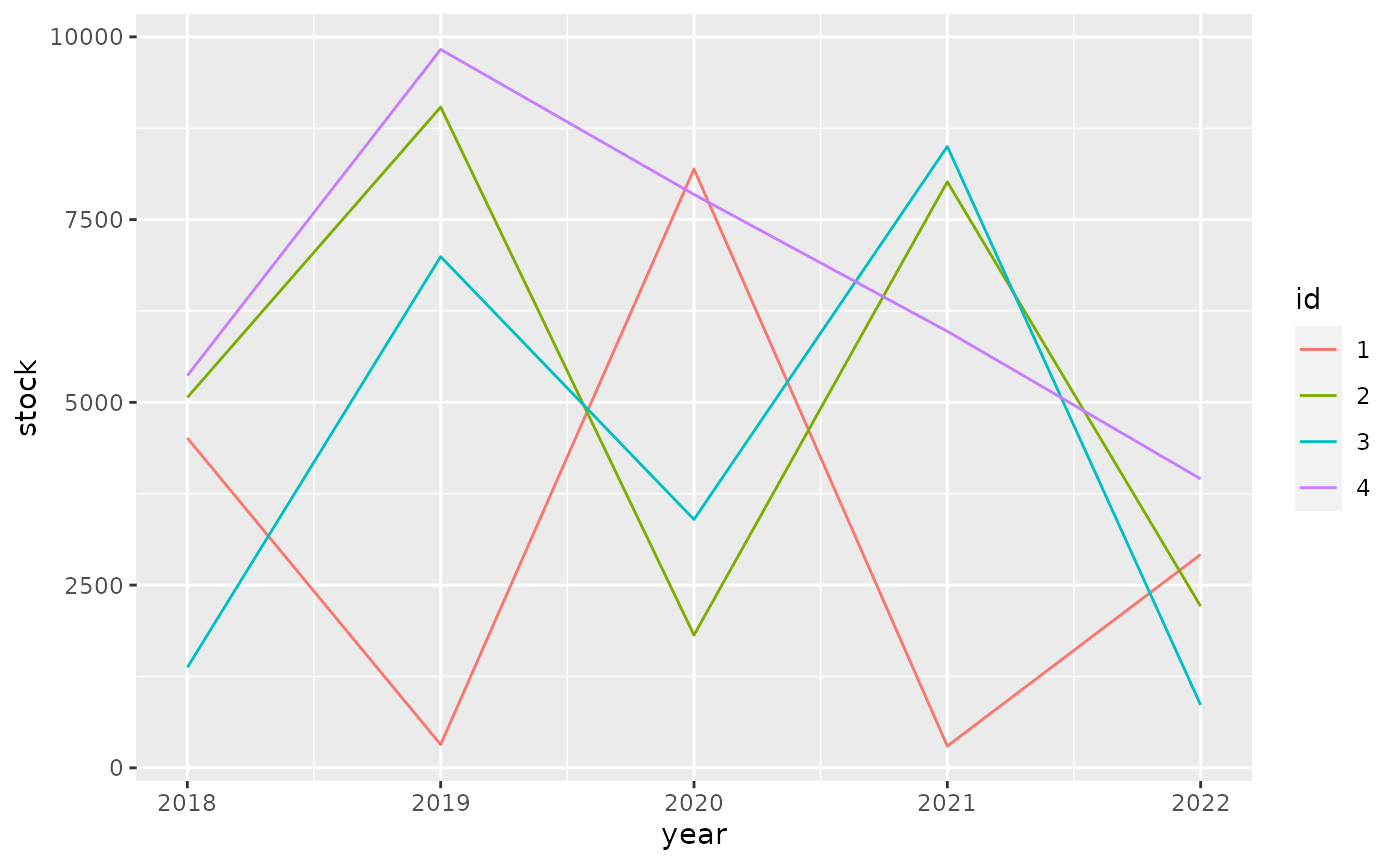
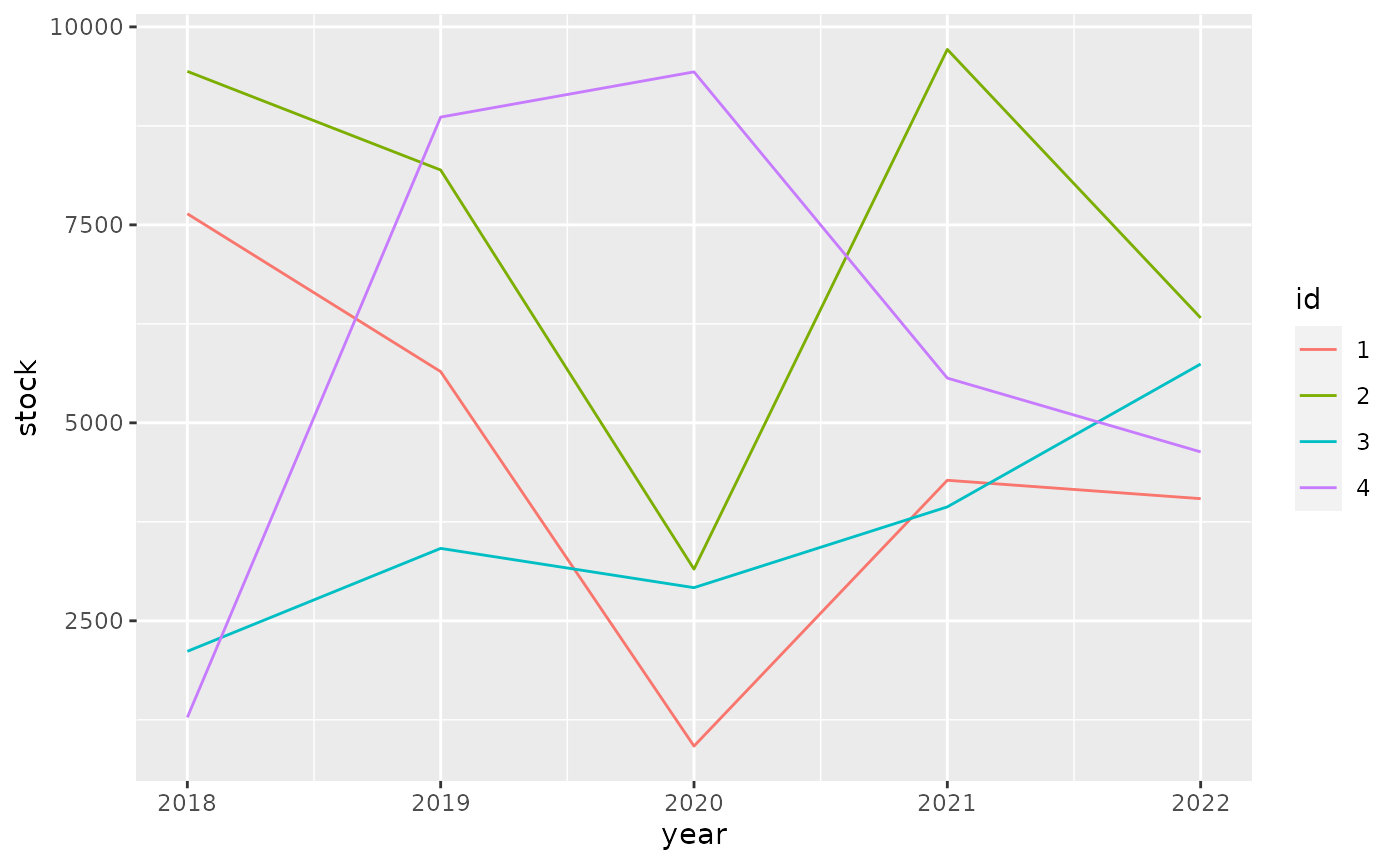
Built site for tibble: 3.0.5@b02f45c

diff --git a/articles/formats.html b/articles/formats.html
@@ -219,10 +219,10 @@
 <span class="co">#&gt; # A tibble: 4 x 6</span>
 <span class="co">#&gt;   id       `2018`    `2019`    `2020`    `2021`    `2022`</span>
 <span class="co">#&gt;   &lt;fct&gt; &lt;dbl:fmt&gt; &lt;dbl:fmt&gt; &lt;dbl:fmt&gt; &lt;dbl:fmt&gt; &lt;dbl:fmt&gt;</span>
-<span class="co">#&gt; 1 1     $4,512.05   $318.34 $8,191.93   $297.36 $2,918.26</span>
-<span class="co">#&gt; 2 2     $5,066.77 $9,039.50 $1,816.20 $8,017.38 $2,210.53</span>
-<span class="co">#&gt; 3 3     $1,372.99 $6,993.50 $3,397.25 $8,500.40   $860.18</span>
-<span class="co">#&gt; 4 4     $5,365.81 $9,827.86 $7,844.16 $5,971.73 $3,952.46</span></code></pre></div>
+<span class="co">#&gt; 1 1     $7,640.32 $5,646.51   $917.88 $4,274.62 $4,042.54</span>
+<span class="co">#&gt; 2 2     $9,438.31 $8,192.54 $3,152.43 $9,715.12 $6,325.04</span>
+<span class="co">#&gt; 3 3     $2,114.59 $3,414.49 $2,918.55 $3,938.66 $5,742.65</span>
+<span class="co">#&gt; 4 4     $1,280.34 $8,860.80 $9,431.76 $5,564.97 $4,633.10</span></code></pre></div>
 <p>For ggplot2 we need to do <a href="https://github.com/tidyverse/ggplot2/pull/4065">some work</a> to show apply the formatting to the scales.</p>
 <div class="sourceCode" id="cb6"><pre class="downlit sourceCode r">
 <code class="sourceCode R"><span class="kw"><a href="https://rdrr.io/r/base/library.html">library</a></span><span class="op">(</span><span class="va"><a href="https://ggplot2.tidyverse.org">ggplot2</a></span><span class="op">)</span>
@@ -233,10 +233,10 @@
   <span class="fu"><a href="https://ggplot2.tidyverse.org/reference/geom_path.html">geom_line</a></span><span class="op">(</span><span class="op">)</span></code></pre></div>
 <p><img src="formats_files/figure-html/unnamed-chunk-7-1.png" width="700"></p>
 <p>It pays off to specify formatting very early in the process. The diagram below shows the principal stages of data analysis and exploration from “R for data science”.</p>
-<div id="htmlwidget-1fa6d353fce962ad28ca" style="width:700px;height:432.632880098888px;" class="DiagrammeR html-widget"></div>
-<script type="application/json" data-for="htmlwidget-1fa6d353fce962ad28ca">{"x":{"diagram":"graph TD\n  Import --> Tidy\n  Tidy --> Transform\n  Transform --> Visualize\n  Visualize --> Communicate\n  Visualize --> Model\n  Model -.-> Transform"},"evals":[],"jsHooks":[]}</script><p>The subsequent diagram adds data formats, communication options, and explicit data formatting. The original r4ds transitions are highlighted in bold. There are two principal options where to apply formatting for results: right before communicating them, or right after importing.</p>
-<div id="htmlwidget-964bc627e0fdabfeb368" style="width:700px;height:432.632880098888px;" class="DiagrammeR html-widget"></div>
-<script type="application/json" data-for="htmlwidget-964bc627e0fdabfeb368">{"x":{"diagram":"graph TD\n  .csv --> Import\n  API --> Import\n  DBI --> Import\n  dbplyr --> Import\n  Import -.-> Format[Format for analysis]\n  Format -.-> Tidy\n\n  subgraph r4ds\n  Import ==> Tidy\n  Tidy ==> Transform\n  Transform ==> Visualize\n  Visualize ==> Model\n  Model -.-> Transform\n  Visualize ==> Communicate\n  end\n\n  Visualize -.-> FormatComm[Format for communication]\n  FormatComm -.-> Communicate\n\n  FormatComm -- Apply formatting early --> Format\n\n  dbplyr -.-> Tidy\n  dbplyr -.-> Transform\n  dbplyr -.-> Visualize\n\n  Communicate --> gt\n  Communicate --> ggplot2\n  Communicate --> DT\n  Communicate --> plotly"},"evals":[],"jsHooks":[]}</script><p>Applying formatting early in the process gives the added benefit of showing the data in a useful format during the “Tidy”, “Transform”, and “Visualize” stages. For this to be useful, we need to ensure that the formatting options applied early:</p>
+<div id="htmlwidget-fbcc080a85685bb3318d" style="width:700px;height:432.632880098888px;" class="DiagrammeR html-widget"></div>
+<script type="application/json" data-for="htmlwidget-fbcc080a85685bb3318d">{"x":{"diagram":"graph TD\n  Import --> Tidy\n  Tidy --> Transform\n  Transform --> Visualize\n  Visualize --> Communicate\n  Visualize --> Model\n  Model -.-> Transform"},"evals":[],"jsHooks":[]}</script><p>The subsequent diagram adds data formats, communication options, and explicit data formatting. The original r4ds transitions are highlighted in bold. There are two principal options where to apply formatting for results: right before communicating them, or right after importing.</p>
+<div id="htmlwidget-52930861bd0c5a7eeb4c" style="width:700px;height:432.632880098888px;" class="DiagrammeR html-widget"></div>
+<script type="application/json" data-for="htmlwidget-52930861bd0c5a7eeb4c">{"x":{"diagram":"graph TD\n  .csv --> Import\n  API --> Import\n  DBI --> Import\n  dbplyr --> Import\n  Import -.-> Format[Format for analysis]\n  Format -.-> Tidy\n\n  subgraph r4ds\n  Import ==> Tidy\n  Tidy ==> Transform\n  Transform ==> Visualize\n  Visualize ==> Model\n  Model -.-> Transform\n  Visualize ==> Communicate\n  end\n\n  Visualize -.-> FormatComm[Format for communication]\n  FormatComm -.-> Communicate\n\n  FormatComm -- Apply formatting early --> Format\n\n  dbplyr -.-> Tidy\n  dbplyr -.-> Transform\n  dbplyr -.-> Visualize\n\n  Communicate --> gt\n  Communicate --> ggplot2\n  Communicate --> DT\n  Communicate --> plotly"},"evals":[],"jsHooks":[]}</script><p>Applying formatting early in the process gives the added benefit of showing the data in a useful format during the “Tidy”, “Transform”, and “Visualize” stages. For this to be useful, we need to ensure that the formatting options applied early:</p>
 <ul>
 <li>give a good user experience for analysis
 <ul>

diff --git a/articles/types.html b/articles/types.html
@@ -349,7 +349,7 @@
 #&gt; $ factor        &lt;fct&gt; A
 #&gt; $ ordered       &lt;ord&gt; a
 #&gt; $ Date          &lt;date&gt; 2021-01-08
-#&gt; $ POSIXt        &lt;dttm&gt; 2021-01-08 06:06:03
+#&gt; $ POSIXt        &lt;dttm&gt; 2021-01-08 06:08:26
 #&gt; $ difftime      &lt;drtn&gt; 1 secs
 #&gt; $ hms           &lt;time&gt; 00:00:01
 #&gt; $ integer64     &lt;int64&gt; 10000000000
@@ -379,7 +379,7 @@
 <span class="co">#&gt;             "sym"</span>
 <span class="co">#&gt;         }, typeof(x))</span>
 <span class="co">#&gt; }</span>
-<span class="co">#&gt; &lt;bytecode: 0x557ce6f43bb8&gt;</span>
+<span class="co">#&gt; &lt;bytecode: 0x560e67e31be0&gt;</span>
 <span class="co">#&gt; &lt;environment: namespace:pillar&gt;</span></code></pre></div>
 </div>
   </div>
